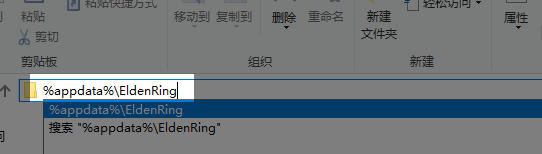
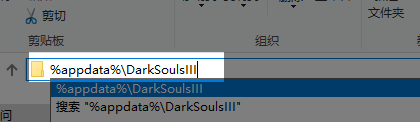
faq.md

diff --git a/docs/faq.md b/docs/faq.md
@@ -25,7 +25,7 @@ nav_order: 5
 ---
 
 ### 无缝能使用修改器吗
-能，无缝会自动禁用小蓝熊
+能，无缝没有反作弊，所以最好关掉“被入侵”
 
 ---
 
@@ -34,23 +34,12 @@ nav_order: 5
 
 ---
 
-### 无缝怎么做白面具的入侵任务
-
-![蠕血废墟.png](/assets/images/蠕血废墟.png)
-
-在这个位置地面有个红符，入侵这个npc并击败即可
-
----
-
 ### 游戏的存档在哪
 
-随便打开一个资源管理器，然后输入`%appdata%\EldenRing`，然后回车
+随便打开一个资源管理器，然后输入`%appdata%\DarkSoulsIII`，然后回车
 
 > 正版学习版都在这
 
 ![存档路径.png](/assets/images/存档路径.png)
 
-以长串数字命名的文件夹就是steamid，再点进去就是游戏存档了，扩展名.sl2的是原版游戏存档，.co2是无缝存档，.cnv.co2是法魂+无缝的存档，.err是ERRmod的存档
-
-相关视频：[存档问题详解](https://www.bilibili.com/video/BV1CkcDegEE1){:target="_blank"}
-
+以长串数字命名的文件夹就是存档id，再点进去就是游戏存档了，扩展名.sl2的是原版游戏存档，.co2是无缝存档
